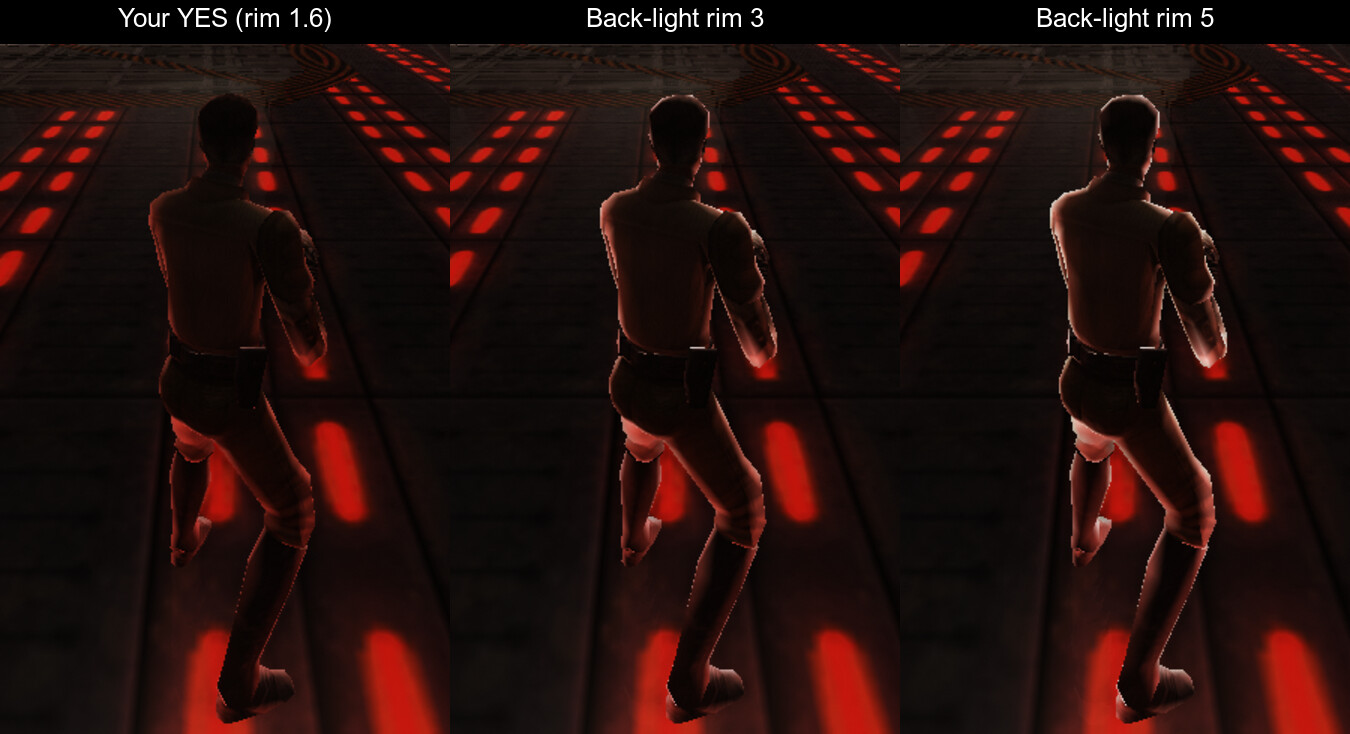
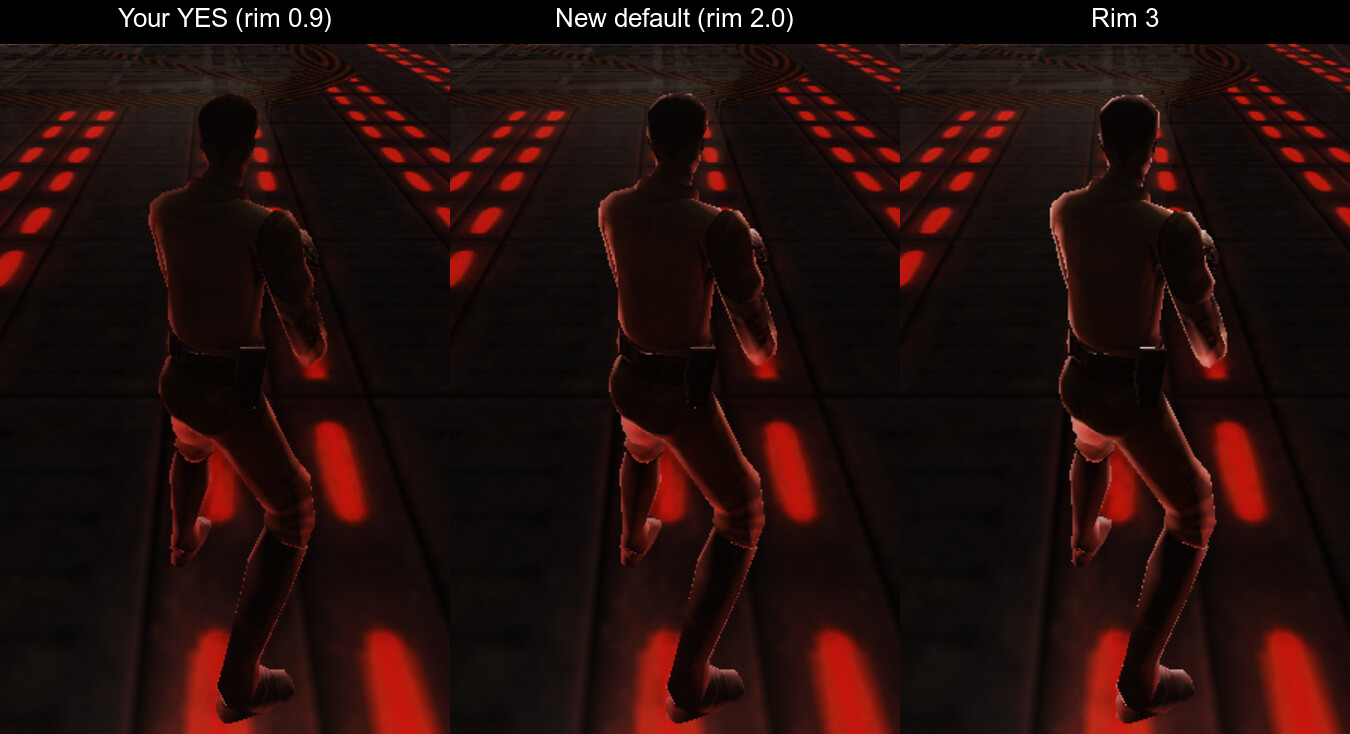
Cinematic light defaults: back-light rim 2.0, key 1.0, fill 0.45 (Dom's pick)

diff --git a/src/World/jkPlayer.c b/src/World/jkPlayer.c
@@ -83,9 +83,9 @@ flex_t jkPlayer_reflectionRoughness = 0.5;                  // Added (remaster)
 int jkPlayer_bSaberGlow = 1;                                 // Added (remaster): procedural glowing blades
 flex_t jkPlayer_saberGlowSize = 1.0;                        // Added (remaster)
 int jkPlayer_bCinematicLight = 0;                          // Added (remaster): key/rim/fill rig on models
-flex_t jkPlayer_cineKey = 1.2;
-flex_t jkPlayer_cineFill = 0.35;
-flex_t jkPlayer_cineRim = 1.6;
+flex_t jkPlayer_cineKey = 1.0;
+flex_t jkPlayer_cineFill = 0.45;
+flex_t jkPlayer_cineRim = 2.0;
 flex_t jkPlayer_cineFloorRim = 3.0;                       // Added (remaster): floor-lit rim on models' lower edges
 flex_t jkPlayer_cineGlow = 0.6;                            // Added (remaster): overbright model light added as glow
 flex_t jkPlayer_cineSat = 1.0;                             // Added (remaster): share of the probe colour in a model's fill and key
@@ -267,9 +267,9 @@ void jkPlayer_StartupVars()
     // Characters and props lit like a film: a key light from the upper side of the shot, a rim
     // light on the silhouette, and the flat ambient turned down to a fill. Needs per-pixel lighting.
     sithCvar_RegisterBool("r_cinematicLight",           0,                          &jkPlayer_bCinematicLight,          CVARFLAG_LOCAL);
-    sithCvar_RegisterFlex("r_cineKey",                  1.2,                        &jkPlayer_cineKey,                  CVARFLAG_LOCAL);
-    sithCvar_RegisterFlex("r_cineFill",                 0.35,                       &jkPlayer_cineFill,                 CVARFLAG_LOCAL);
-    sithCvar_RegisterFlex("r_cineRim",                  1.6,                        &jkPlayer_cineRim,                  CVARFLAG_LOCAL);
+    sithCvar_RegisterFlex("r_cineKey",                  1.0,                        &jkPlayer_cineKey,                  CVARFLAG_LOCAL);
+    sithCvar_RegisterFlex("r_cineFill",                 0.45,                       &jkPlayer_cineFill,                 CVARFLAG_LOCAL);
+    sithCvar_RegisterFlex("r_cineRim",                  2.0,                        &jkPlayer_cineRim,                  CVARFLAG_LOCAL);
     sithCvar_RegisterBool("r_volumetricSky",            1,                          &jkPlayer_bVolumetricSky,           CVARFLAG_LOCAL);
     // Baked light maps (light bake, tools/blender/lightmap_sidecar.py) in place of the 1997
     // corner light on level faces, where a level has one. Fill adds back that much of the 1997

diff --git a/docs/DECISIONS.md b/docs/DECISIONS.md
@@ -608,6 +608,7 @@ Every scene should be lit like a cinematic Star Wars shot: key light from the si
 - Dom's reference for this (a paint-over of the hangar start, third person): hot thin red edges on the legs, arm and shoulder from the floor strips, strips blooming, wet floor. It's the target for model light in coloured rooms.
 - To get there: a floor rim (`r_cineFloorRim` 3: the lower silhouette catches the floor light hard, fading over 0.25 units of height so overhead models don't) and overbright glow (`r_cineGlow` 0.6: model light past full brightness is passed to the shader in the vertex's spare nz and added on top in the light's colour, so it shows on dark boots and blooms). `r_cineSat` (1) can pull colour out of the fill and key; Dom preferred full colour ("it feels more realistic").
 - Two engine bugs in the RGB model path (Mysteries of the Sith code): it added the grey vertex light on top of the colour (faces went flat white), and clamped colour at 1 (raised to 4; rdCache still clamps the final colour). Kyle is the skinned remaster model; the same path serves rigid models.
-- Tried and rejected: hip-height floor effects and a camera-side key made the back of a character in a red room a black silhouette. A stronger back-light rim (`r_cineRim` 3 to 5) catches the white lights in front of Kyle on his shoulders and head (docs/screenshots/stage2-light-probes-rim.jpg), waiting on Dom's pick.
+- Tried and rejected: hip-height floor effects and a camera-side key made the back of a character in a red room a black silhouette. A stronger back-light rim catches the white lights in front of Kyle on his shoulders and head. Dom picked between the approved look and rim 3: new defaults `r_cineRim` 2.0, `r_cineKey` 1.0, `r_cineFill` 0.45, `r_cineSat` 1 (docs/screenshots/stage2-light-probes-rim.jpg).
+- Gotcha: captures save every setting passed on the command line into the capture profile (gamedata/capture/player/ServerDed/openjkdf2_cvars.json), so later captures silently kept old tuning values (the "rim 1.6" frame was really 0.9). The code defaults now match the approved look and the r_cine values were cleared from the capture profile. Dom's own profile had none saved, so the game uses the defaults.
 - Not yet: models aren't in the bake, so the bright shuttle in front of Kyle lights nothing. Options: a screen-space rim coloured by what's behind a character (general), or baking parked models into the probes.
 - Next (proposal): atmosphere, volumetric fog lit by a baked light volume, height fog, hand-placed fog and smoke volumes (docs/stage2-atmosphere-plan.md).
